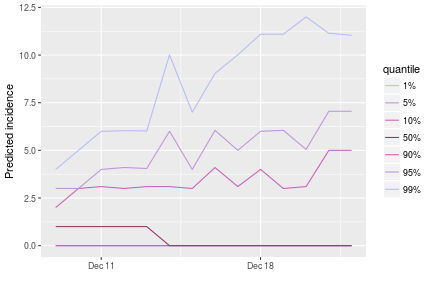
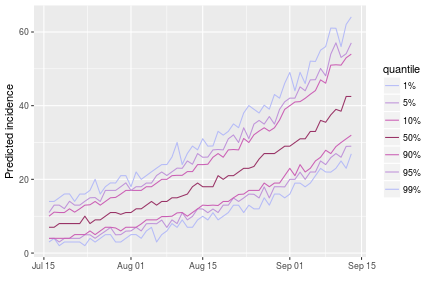
new readme

diff --git a/README.md b/README.md
@@ -59,63 +59,50 @@ The main features of the package include:
 
 ## Worked example
 
-In the following, we simulate a small outbreak with the following dates of
-onset:
+In the following, we project future incidence using a simulate Ebola outbreak
+distributed in the package `outbreaks`:
 
 ```r
-onset <- as.Date(c("2017-12-01", "2017-12-04", "2017-12-05", "2017-12-05",
-                 "2017-12-05", "2017-12-06", "2017-12-08"))
-```
-
-The package incidence is used to generate an epicurve:
-
-
-```r
+library(outbreaks)
 library(incidence)
+
+onset <- ebola_sim$linelist$date_of_onset
 i <- incidence(onset)
-i
+plot(i) # full outbreak
 ```
 
-```
-## <incidence object>
-## [7 cases from days 2017-12-01 to 2017-12-08]
-## 
-## $counts: matrix with 8 rows and 1 columns
-## $n: 7 cases in total
-## $dates: 8 dates marking the left-side of bins
-## $interval: 1 day
-## $timespan: 8 days
-```
+![plot of chunk onset](figure/onset-1.png)
 
 ```r
-plot(i)
+plot(i[1:160]) # first 160 days
 ```
 
-![plot of chunk epicurve](figure/epicurve-1.png)
+![plot of chunk onset](figure/onset-2.png)
 
-Let us assume the following serial interval distribution with a mean of 2.8 days
-and a CV of +/- 0.4 days (in practice, these values would likely come from the literature):
-
+We create a serial interval distribution using `distcrete`:
 
 ```r
 library(distcrete)
 library(epitrix)
-mu <- 2.8
-cv <- 0.4
+mu <- 15.3
+sigma <- 9.3
+cv <- sigma / mu
 params <- gamma_mucv2shapescale(mu, cv)
 params
 ```
 
 ```
 ## $shape
-## [1] 6.25
+## [1] 2.706556
 ## 
 ## $scale
-## [1] 0.448
+## [1] 5.652941
 ```
 
 ```r
-si <- distcrete("gamma", shape = params$shape, scale = params$scale, interval = 1, w = 0)
+si <- distcrete("gamma", shape = params$shape,
+                scale = params$scale,
+                interval = 1, w = 0)
 si
 ```
 
@@ -123,45 +110,27 @@ si
 ## A discrete distribution
 ##   name: gamma
 ##   parameters:
-##     shape: 6.25
-##     scale: 0.448
+##     shape: 2.70655567117586
+##     scale: 5.65294117647059
 ```
 
 ```r
-plot(si$d, xlim = c(0,10), type = "h", lwd = 3, col = "navy",
-     main = "Serial interval", xlab = "Days after onset", ylab = "Relative infectiousness")
+plot(1:50, si$d(1:50), type = "h", lwd = 3, col = "navy",
+     main = "Serial interval", xlab = "Days after onset",
+     ylab = "Relative infectiousness")
 ```
 
-![plot of chunk interval](figure/interval-1.png)
-
-We also need to estimate transmissibility. For this, we use the function `get_R`
-from the `earlyR` package:
+![plot of chunk si](figure/si-1.png)
 
 
-```r
-library(earlyR)
-R <- get_R(i, si = si) # ML estimation
-```
-
-```
-## Warning: 'EpiEstim::OverallInfectivity' is deprecated.
-## Use 'overall_infectivity' instead.
-## See help("Deprecated")
-```
-
-```r
-R_samp <- sample_R(R, 100) # 100 plausible values of R
-```
-
-
-
-We can now predict future incidence based on these data:
+We predict future incidence based on these data, assuming a reproduction number
+of 1.5, from day 100 and for 60 days:
 
 
 ```r
 library(projections)
 set.seed(1)
-pred <- project(i, R = R_samp, si = si, n_days = 14)
+pred <- project(i[1:100], R = 1.5, si = si, n_days = 60)
 pred
 ```
 
@@ -170,26 +139,35 @@ pred
 ## /// Incidence projections //
 ## 
 ##   // class: projections, matrix
-##   // 14 dates (rows); 100 simulations (columns)
+##   // 60 dates (rows); 100 simulations (columns)
 ## 
 ##  // first rows/columns:
 ##            [,1] [,2] [,3] [,4] [,5] [,6]
-## 2017-12-09    1    0    0    4    1    0
-## 2017-12-10    2    0    0    2    1    3
-## 2017-12-11    3    0    0    4    0    3
-## 2017-12-12    6    0    0    2    1    0
+## 2014-07-16    8    6    5   14    8    5
+## 2014-07-17    8    4    7    7    6   14
+## 2014-07-18    8    9    9    9    7   13
+## 2014-07-19   12   11   10    9    9    4
 ##  .
 ##  .
 ##  .
 ## 
 ##  // dates:
-##  [1] "2017-12-09" "2017-12-10" "2017-12-11" "2017-12-12" "2017-12-13"
-##  [6] "2017-12-14" "2017-12-15" "2017-12-16" "2017-12-17" "2017-12-18"
-## [11] "2017-12-19" "2017-12-20" "2017-12-21" "2017-12-22"
+##  [1] "2014-07-16" "2014-07-17" "2014-07-18" "2014-07-19" "2014-07-20"
+##  [6] "2014-07-21" "2014-07-22" "2014-07-23" "2014-07-24" "2014-07-25"
+## [11] "2014-07-26" "2014-07-27" "2014-07-28" "2014-07-29" "2014-07-30"
+## [16] "2014-07-31" "2014-08-01" "2014-08-02" "2014-08-03" "2014-08-04"
+## [21] "2014-08-05" "2014-08-06" "2014-08-07" "2014-08-08" "2014-08-09"
+## [26] "2014-08-10" "2014-08-11" "2014-08-12" "2014-08-13" "2014-08-14"
+## [31] "2014-08-15" "2014-08-16" "2014-08-17" "2014-08-18" "2014-08-19"
+## [36] "2014-08-20" "2014-08-21" "2014-08-22" "2014-08-23" "2014-08-24"
+## [41] "2014-08-25" "2014-08-26" "2014-08-27" "2014-08-28" "2014-08-29"
+## [46] "2014-08-30" "2014-08-31" "2014-09-01" "2014-09-02" "2014-09-03"
+## [51] "2014-09-04" "2014-09-05" "2014-09-06" "2014-09-07" "2014-09-08"
+## [56] "2014-09-09" "2014-09-10" "2014-09-11" "2014-09-12" "2014-09-13"
 ```
 
 ```r
-plot(pred) # median and 95% prediction
+plot(pred) # default plot of quantiles
 ```
 
 ![plot of chunk predictions](figure/predictions-1.png)
@@ -199,12 +177,26 @@ apply(pred, 1, mean) # average prediction per day
 ```
 
 ```
-## 2017-12-09 2017-12-10 2017-12-11 2017-12-12 2017-12-13 2017-12-14 
-##       0.99       1.05       1.25       1.22       1.17       1.23 
-## 2017-12-15 2017-12-16 2017-12-17 2017-12-18 2017-12-19 2017-12-20 
-##       1.04       1.45       1.06       1.40       1.27       1.22 
-## 2017-12-21 2017-12-22 
-##       1.61       1.37
+## 2014-07-16 2014-07-17 2014-07-18 2014-07-19 2014-07-20 2014-07-21 
+##       7.21       7.50       7.85       7.89       8.20       8.15 
+## 2014-07-22 2014-07-23 2014-07-24 2014-07-25 2014-07-26 2014-07-27 
+##       8.46       9.27       9.01       9.38       9.44      10.21 
+## 2014-07-28 2014-07-29 2014-07-30 2014-07-31 2014-08-01 2014-08-02 
+##      11.13      10.95      10.84      11.55      11.42      12.20 
+## 2014-08-03 2014-08-04 2014-08-05 2014-08-06 2014-08-07 2014-08-08 
+##      12.19      13.17      13.99      13.78      14.39      14.32 
+## 2014-08-09 2014-08-10 2014-08-11 2014-08-12 2014-08-13 2014-08-14 
+##      15.29      15.54      16.12      16.13      17.12      18.33 
+## 2014-08-15 2014-08-16 2014-08-17 2014-08-18 2014-08-19 2014-08-20 
+##      18.59      18.17      18.99      20.29      20.24      20.96 
+## 2014-08-21 2014-08-22 2014-08-23 2014-08-24 2014-08-25 2014-08-26 
+##      21.65      21.97      23.41      23.13      24.30      25.14 
+## 2014-08-27 2014-08-28 2014-08-29 2014-08-30 2014-08-31 2014-09-01 
+##      26.47      26.07      26.64      27.75      29.24      30.19 
+## 2014-09-02 2014-09-03 2014-09-04 2014-09-05 2014-09-06 2014-09-07 
+##      30.87      31.94      31.87      33.59      33.69      35.98 
+## 2014-09-08 2014-09-09 2014-09-10 2014-09-11 2014-09-12 2014-09-13 
+##      36.36      38.54      39.53      39.78      41.56      43.24
 ```
 
 ```r
@@ -212,15 +204,36 @@ apply(pred, 1, range) # range across simulations
 ```
 
 ```
-##      2017-12-09 2017-12-10 2017-12-11 2017-12-12 2017-12-13 2017-12-14
-## [1,]          0          0          0          0          0          0
-## [2,]          4          5          6          9          8         11
-##      2017-12-15 2017-12-16 2017-12-17 2017-12-18 2017-12-19 2017-12-20
-## [1,]          0          0          0          0          0          0
-## [2,]          7         13         11         20         20         12
-##      2017-12-21 2017-12-22
-## [1,]          0          0
-## [2,]         25         15
+##      2014-07-16 2014-07-17 2014-07-18 2014-07-19 2014-07-20 2014-07-21
+## [1,]          2          3          2          2          2          2
+## [2,]         14         15         16         19         21         15
+##      2014-07-22 2014-07-23 2014-07-24 2014-07-25 2014-07-26 2014-07-27
+## [1,]          2          2          3          1          2          4
+## [2,]         16         16         20         22         18         19
+##      2014-07-28 2014-07-29 2014-07-30 2014-07-31 2014-08-01 2014-08-02
+## [1,]          5          3          2          4          5          5
+## [2,]         23         20         21         22         19         23
+##      2014-08-03 2014-08-04 2014-08-05 2014-08-06 2014-08-07 2014-08-08
+## [1,]          4          5          5          3          5          6
+## [2,]         21         23         27         27         25         26
+##      2014-08-09 2014-08-10 2014-08-11 2014-08-12 2014-08-13 2014-08-14
+## [1,]          8          4          9          7          6          8
+## [2,]         31         31         26         29         32         29
+##      2014-08-15 2014-08-16 2014-08-17 2014-08-18 2014-08-19 2014-08-20
+## [1,]          8          7          6          9         10          9
+## [2,]         34         31         35         37         32         35
+##      2014-08-21 2014-08-22 2014-08-23 2014-08-24 2014-08-25 2014-08-26
+## [1,]         11         11          9         12         11         12
+## [2,]         40         36         40         43         41         39
+##      2014-08-27 2014-08-28 2014-08-29 2014-08-30 2014-08-31 2014-09-01
+## [1,]         14         12         16         16         13         15
+## [2,]         53         44         46         45         51         51
+##      2014-09-02 2014-09-03 2014-09-04 2014-09-05 2014-09-06 2014-09-07
+## [1,]         17         17         15         18         19         21
+## [2,]         48         54         47         61         52         61
+##      2014-09-08 2014-09-09 2014-09-10 2014-09-11 2014-09-12 2014-09-13
+## [1,]         22         18         22         24         23         20
+## [2,]         60         67         62         59         67         73
 ```
 
 An alternative representation of the outcomes:
@@ -233,16 +246,17 @@ head(df)
 
 ```
 ##         date incidence sim
-## 1 2017-12-09         1   1
-## 2 2017-12-10         2   1
-## 3 2017-12-11         3   1
-## 4 2017-12-12         6   1
-## 5 2017-12-13         4   1
-## 6 2017-12-14         6   1
+## 1 2014-07-16         8   1
+## 2 2014-07-17         8   1
+## 3 2014-07-18         8   1
+## 4 2014-07-19        12   1
+## 5 2014-07-20        11   1
+## 6 2014-07-21        10   1
 ```
 
 ```r
-p <- ggplot(df, aes(x = date, y = incidence)) + geom_jitter(alpha = .3) + geom_smooth()
+p <- ggplot(df, aes(x = date, y = incidence)) +
+  geom_jitter(alpha = .3) + geom_smooth()
 p
 ```
 
@@ -253,10 +267,24 @@ p
 ![plot of chunk plots](figure/plots-1.png)
 
 
+Predictions can also be added to the epicurve:
+
+```r
+library(magrittr)
+
+plot(i[20:160]) %>% add_projections(pred)
+```
+
+![plot of chunk plot_with_incidence](figure/plot_with_incidence-1.png)
+
+
+
 
 ## Vignettes
 
-*projections* does not currently have a dedicated vignette; instead, it is illustrated in conjunction with `earlyR` on [this vignette](http://www.repidemicsconsortium.org/earlyR/articles/earlyR.html).
+*projections* does not currently have a dedicated vignette; instead, it is
+illustrated in conjunction with `earlyR` on [this
+vignette](http://www.repidemicsconsortium.org/earlyR/articles/earlyR.html).
 
 
 ## Websites
@@ -271,10 +299,15 @@ A dedicated website can be found at:
 
 ## Getting help online
 
-Bug reports and feature requests should be posted on *github* using the [*issue*](http://github.com/reconhub/projections/issues) system. All other questions should be posted on the **RECON forum**: <br>
+Bug reports and feature requests should be posted on *github* using the
+[*issue*](http://github.com/reconhub/projections/issues) system. All other
+questions should be posted on the **RECON forum**: <br>
 [http://www.repidemicsconsortium.org/forum/](http://www.repidemicsconsortium.org/forum/)
 
-Contributions are welcome via [pull requests](https://github.com/reconhub/projections/pulls).
+Contributions are welcome via [pull
+requests](https://github.com/reconhub/projections/pulls).
 
-Please note that this project is released with a [Contributor Code of Conduct](CONDUCT.md). By participating in this project you agree to abide by its terms.
+Please note that this project is released with a [Contributor Code of
+Conduct](CONDUCT.md). By participating in this project you agree to abide by its
+terms.
 
